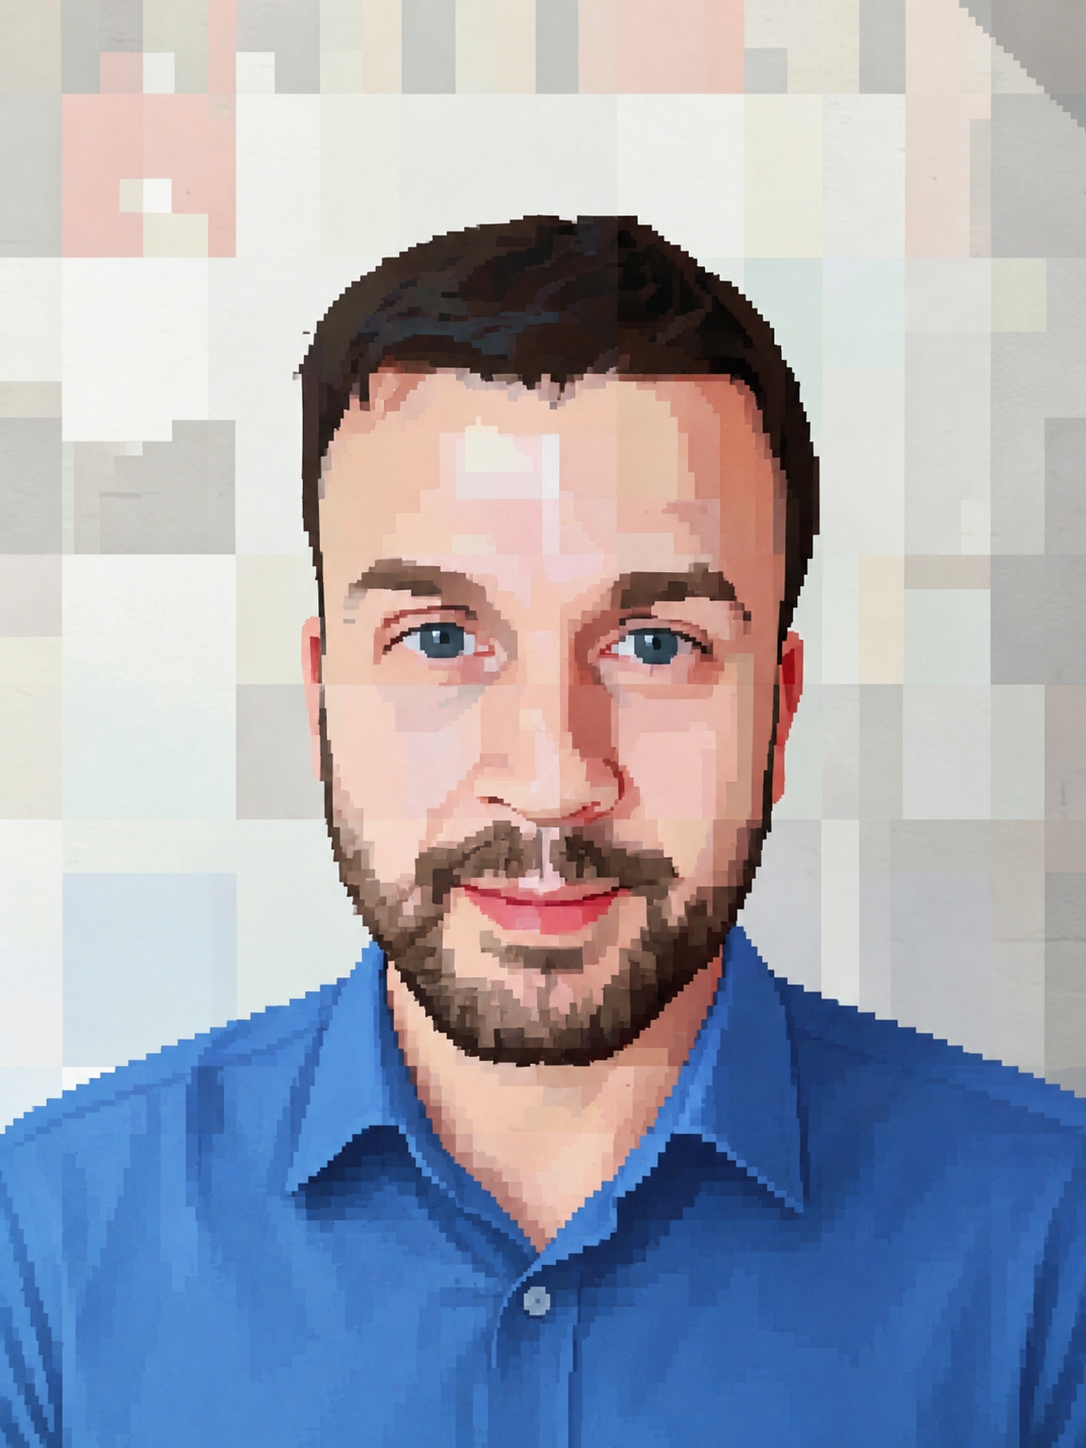
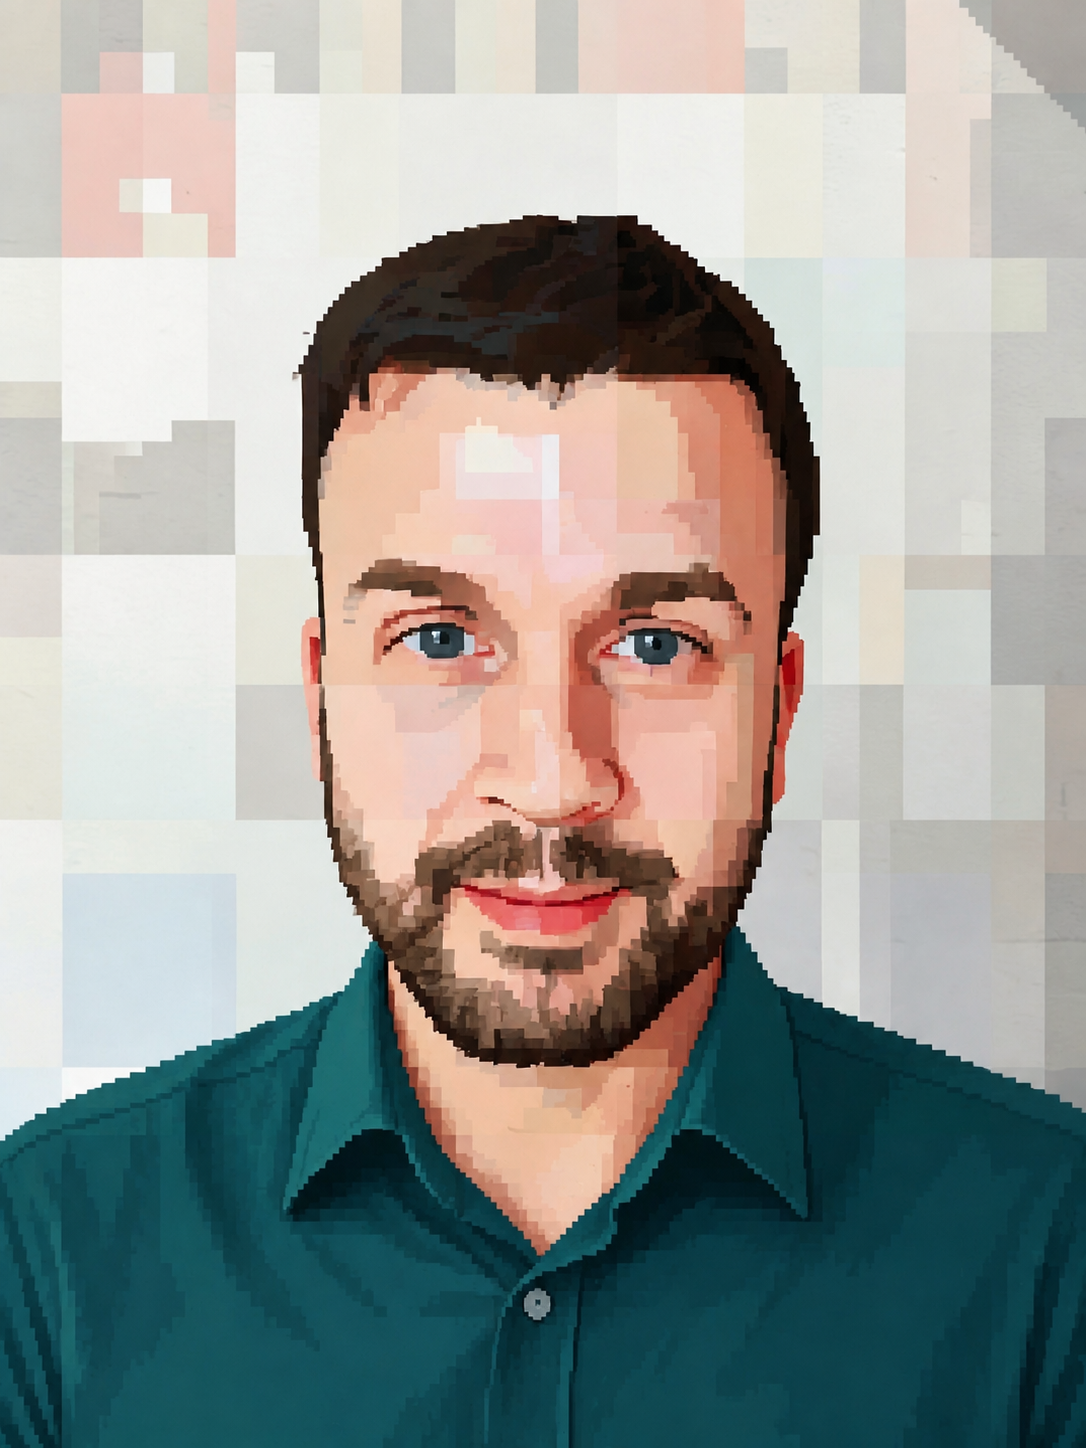
Enhance button styles on about page

diff --git a/about/styles.css b/about/styles.css
@@ -186,7 +186,10 @@ a { color: inherit; }
   padding: 0.8rem 1.1rem;
   border-radius: 999px;
   text-decoration: none;
+  font: inherit;
   font-weight: 600;
+  border: none;
+  cursor: pointer;
   transition: transform 180ms ease, background 180ms ease;
 }
 
